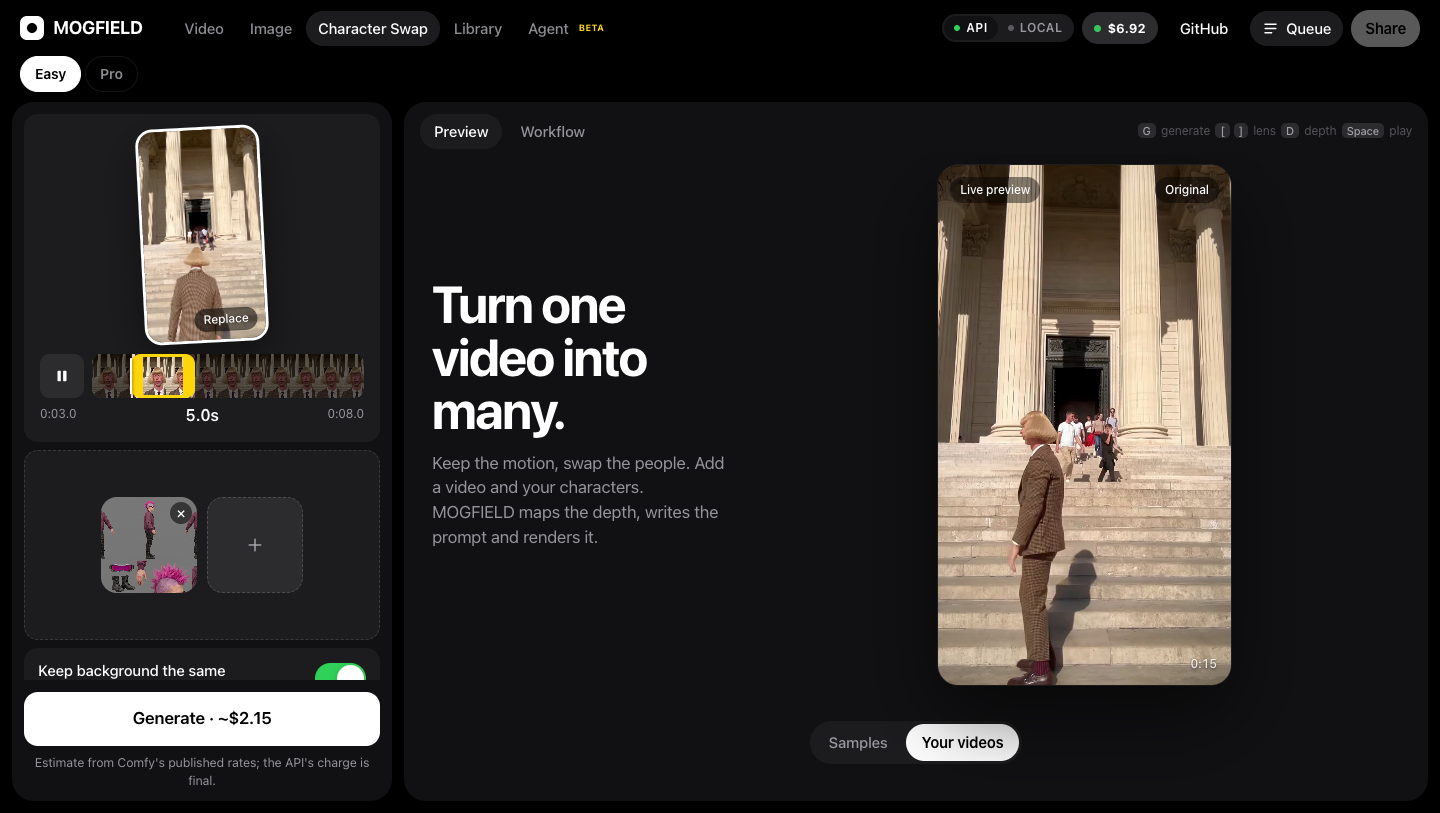
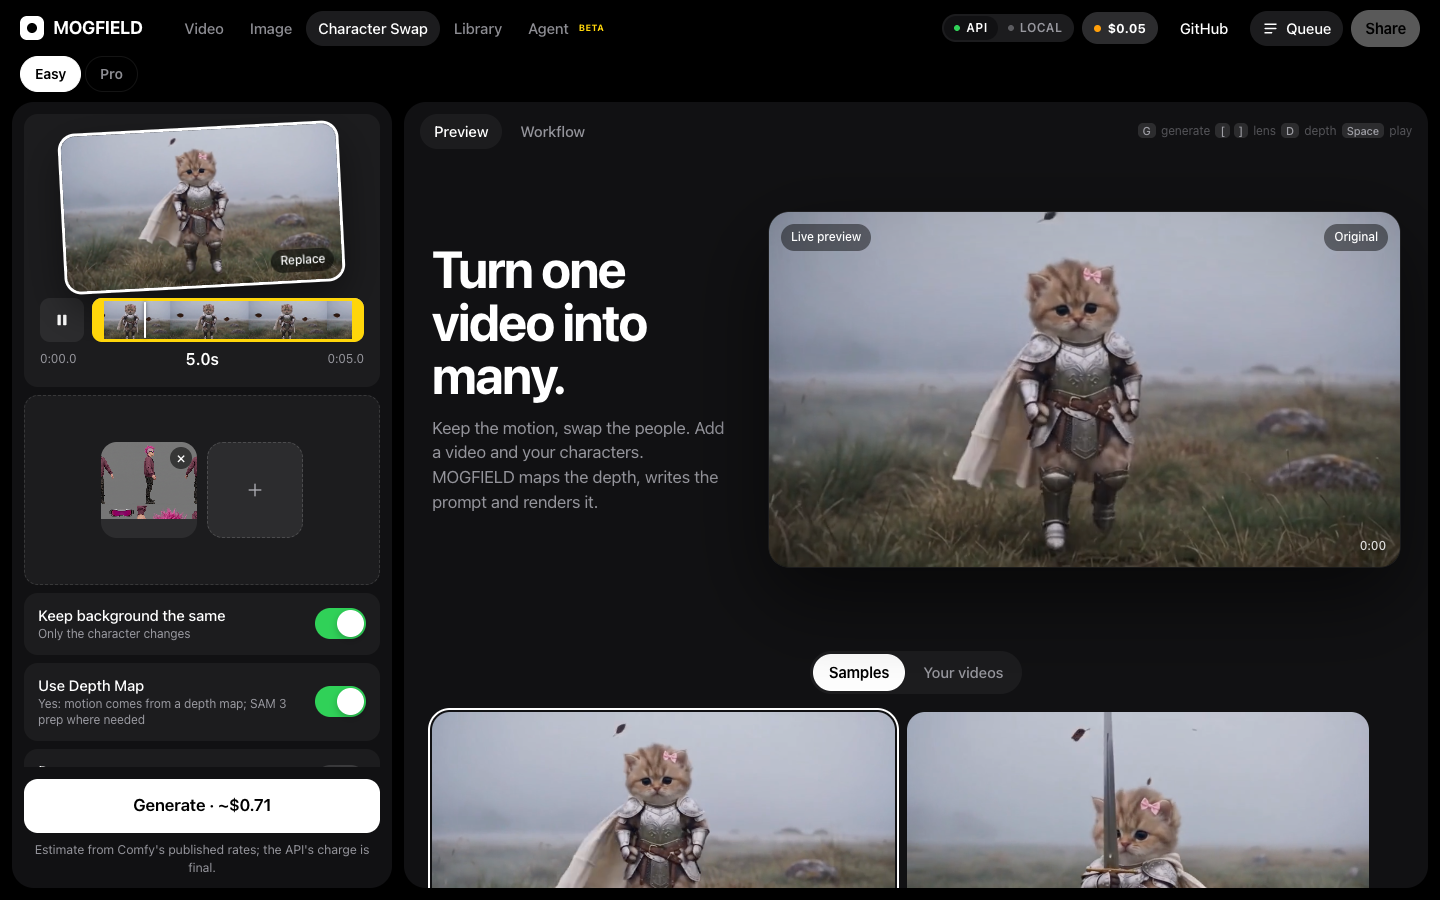
README: use the sample clip in the paste-link screenshots

diff --git a/README.md b/README.md
@@ -50,7 +50,7 @@ video for you and opens it with trim controls, so you pick the part you want
 2. **Trim it.** The clip is downloaded and opens with a trim bar. Drag the
    yellow handles to choose the moment you want.
 
-   <img src="docs/media/paste-trim.png" alt="The downloaded TikTok with trim controls" width="720">
+   <img src="docs/media/paste-trim.png" alt="A downloaded video with the trim controls" width="720">
 
 3. **Add a character, pick a model, press Generate.** The cost shows on the
    button before you spend anything.
